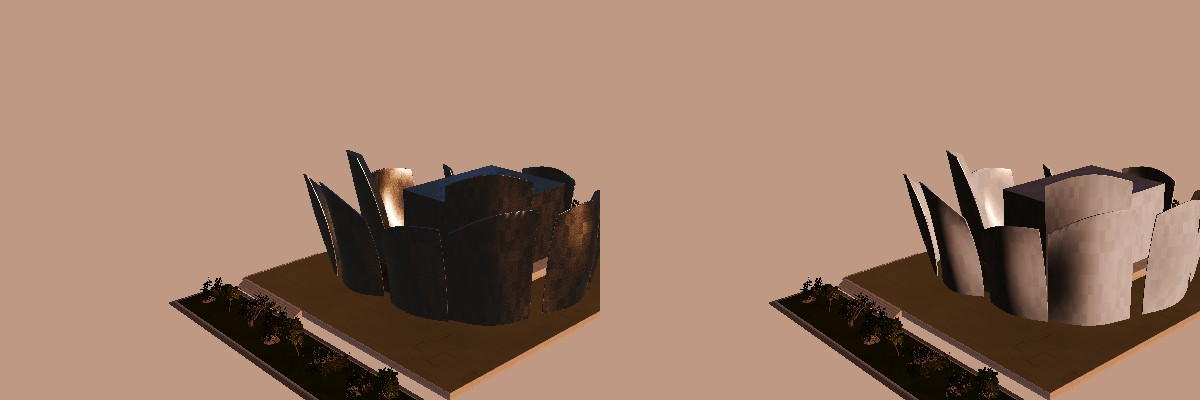
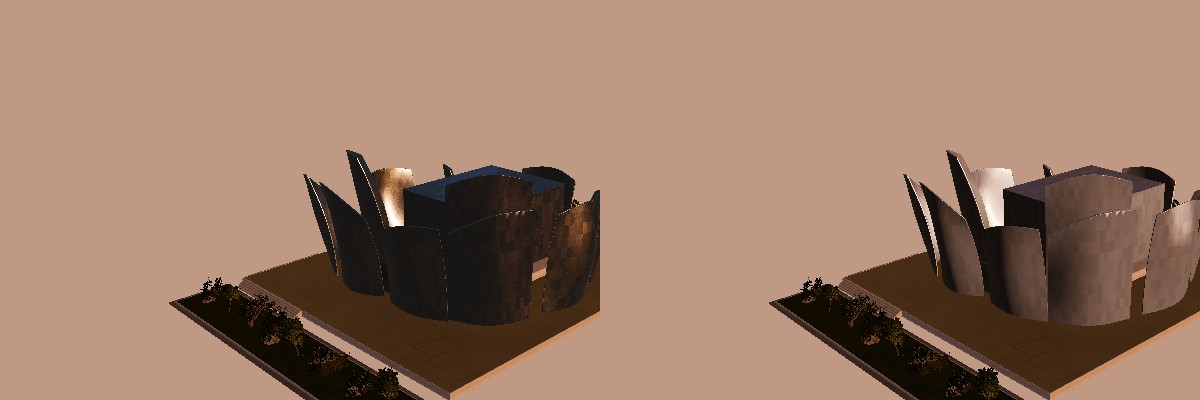
Wingsuit refcam: final steel on Forward+

Changed region(s): [[0.7708, 0.42, 1.0, 0.81], [0.74, 0.45, 0.7708, 0.51], [0.7092, 0.75, 0.74, 0.78]]

diff --git a/README.md b/README.md
@@ -15,4 +15,4 @@ After the lead's review (the concert hall, the crowns):
 - 08_hall_and_crowns_before_after.jpg - the camera before (left) and after (right), with the hall cropped below.
 - 09_crowns_before_after.jpg - the lit crowns at 18:00: left the bloomed white disc, right waiting for dusk.
 - 10_steel_alone_golden_before_after.jpg - the hall alone under a low western sun, opengl3: left as before, right the final steel (no fog or sky radiance in that tool).
-- 11_steel_alone_forwardplus_before_after.jpg - the same on Forward+ (lavapipe), an earlier iteration of the steel (the face-lit lobe, since replaced by the reflected streak).
+- 11_steel_alone_forwardplus_before_after.jpg - the same on Forward+ (lavapipe), the final steel.
